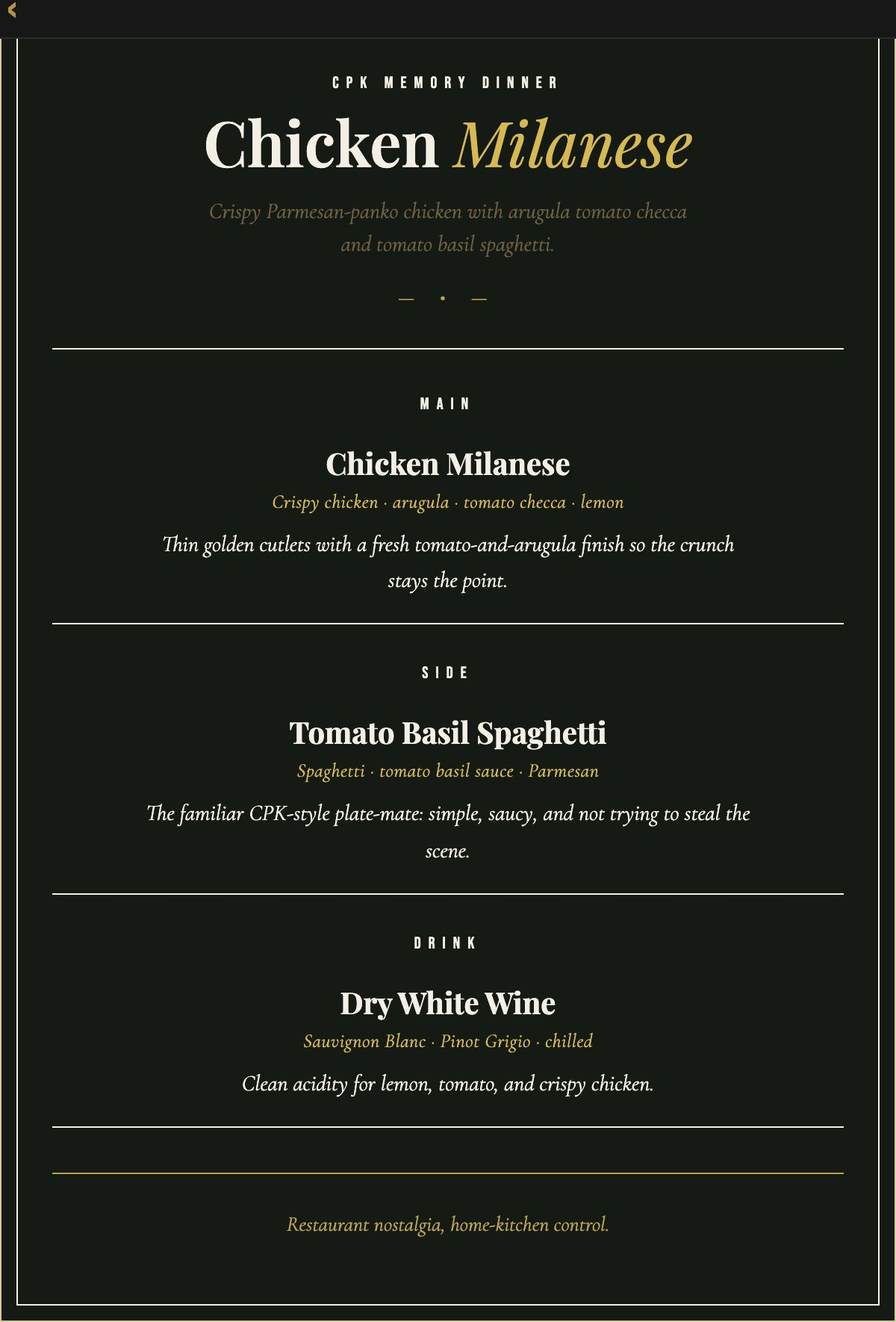
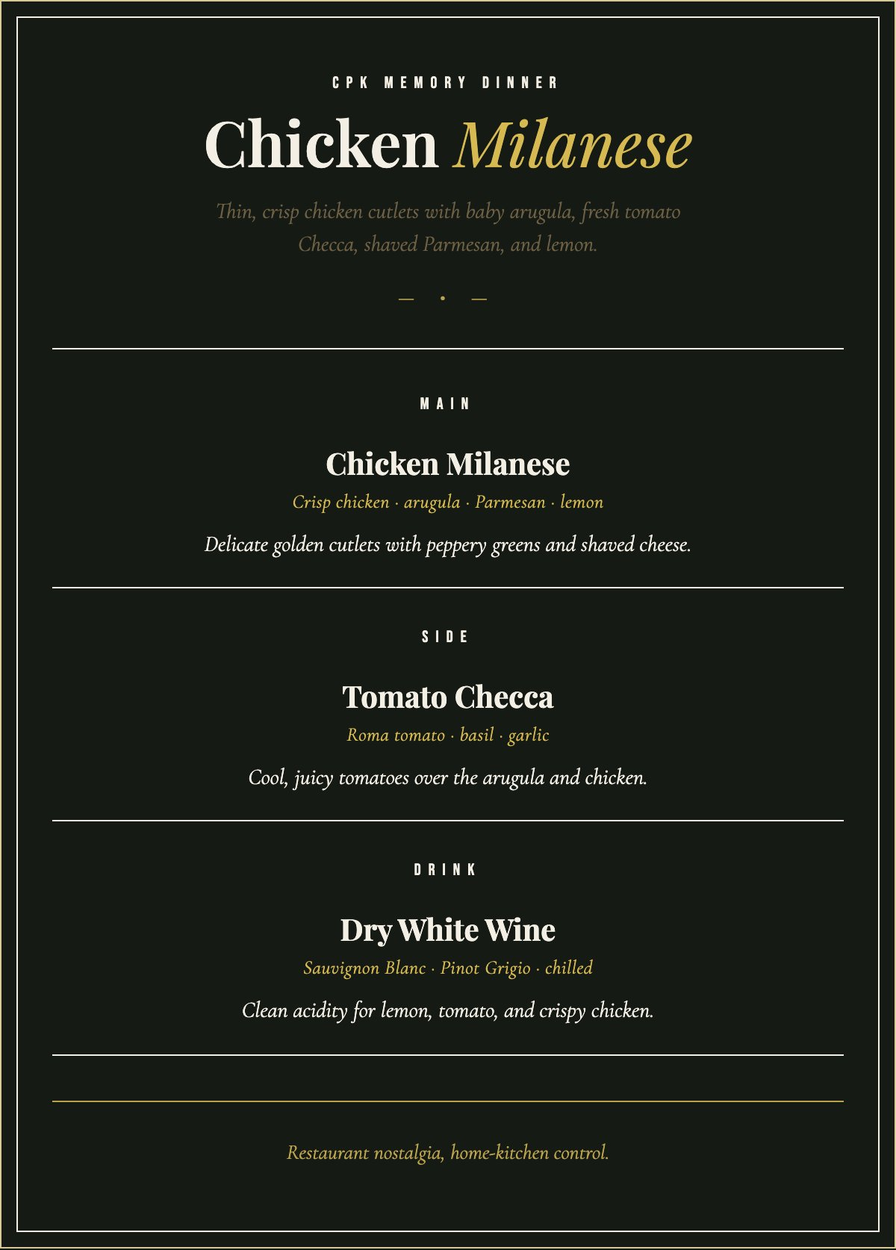
Update Milanese to cookbook recipe and align chicken bake drink

diff --git a/docs/instruction-content.js b/docs/instruction-content.js
@@ -128,8 +128,8 @@ window.INSTRUCTION_CONTENT = {
   "chicken-milanese": {
     "title": "Chicken Milanese Instructions",
     "heroTitle": "Chicken <span>Milanese</span>",
-    "heroSub": "Serves 3 · Prep 25 min · Cook 25 min",
-    "body": "<div class=\"hero\">\n  <div class=\"hero-title\">Chicken <span>Milanese</span></div>\n  <div class=\"hero-sub\">Serves 3 · Prep 25 min · Cook 25 min</div>\n</div>\n\n<div class=\"sec\">Drink</div>\n<div class=\"ingredient-pull\"><div class=\"ingredient-pull-title\">Pull Out</div><div class=\"ingredient-pull-list\"><span class=\"ingredient-pill\">Dry white wine</span></div></div>\n<div class=\"cook-block wide-half\" data-no-scale>\n  <div class=\"cook-head\"><span><h3>Dry White Wine</h3></span></div>\n  <ol class=\"cook-steps\">\n    <li><span class=\"st\">Pour a cold glass of <span class=\"ing\">Sauvignon Blanc or Pinot Grigio</span>. Crisp, dry, and not here to fight the lemony crispy chicken.</span></li>\n  </ol>\n</div>\n\n<div class=\"sec\">Checca</div>\n<div class=\"ingredient-pull\"><div class=\"ingredient-pull-title\">Pull Out</div><div class=\"ingredient-pull-list\"><span class=\"ingredient-pill\">Tomatoes</span><span class=\"ingredient-pill\">Basil</span><span class=\"ingredient-pill\">Garlic</span><span class=\"ingredient-pill\">Lemon</span><span class=\"ingredient-pill\">Arugula</span></div></div>\n<div class=\"cook-block wide-half\">\n  <div class=\"cook-head\"><span><h3>Make Tomato Checca</h3></span></div>\n  <ol class=\"cook-steps\">\n    <li><span class=\"st\">Halve or quarter <span class=\"ing\">1 pint cherry tomatoes</span>. Chop <span class=\"ing\">1/4 cup basil</span> and mince or grate <span class=\"ing\">1 small garlic clove</span>.</span></li>\n    <li><span class=\"st\">Toss tomatoes with basil, garlic, <span class=\"ing\">1 tbsp lemon juice</span>, a small drizzle of oil, salt, and pepper.</span></li>\n    <li><span class=\"st\">Let it sit while everything cooks. Keep the <span class=\"ing\">arugula</span> undressed until plating so it stays crisp.</span></li>\n  </ol>\n</div>\n\n<div class=\"sec\">Pasta</div>\n<div class=\"ingredient-pull\"><div class=\"ingredient-pull-title\">Pull Out</div><div class=\"ingredient-pull-list\"><span class=\"ingredient-pill\">Spaghetti</span><span class=\"ingredient-pill\">Tomato basil sauce</span><span class=\"ingredient-pill\">Parmesan</span><span class=\"ingredient-pill\">Basil</span></div></div>\n<div class=\"cook-block wide-half\">\n  <div class=\"cook-head\"><span><h3>Tomato Basil Spaghetti</h3></span></div>\n  <ol class=\"cook-steps\">\n    <li><span class=\"st\">Boil <span class=\"ing\">8 oz spaghetti</span> in salted water until al dente. Save a splash of pasta water before draining.</span></li>\n    <li><span class=\"st\">Warm <span class=\"ing\">about 2 cups tomato basil sauce</span> or marinara in a small pot.</span></li>\n    <li><span class=\"st\">Toss spaghetti with enough sauce to coat, a splash of pasta water if needed, and <span class=\"ing\">2 tbsp parmesan</span>.</span></li>\n  </ol>\n</div>\n\n<div class=\"sec\">Chicken</div>\n<div class=\"ingredient-pull\"><div class=\"ingredient-pull-title\">Pull Out</div><div class=\"ingredient-pull-list\"><span class=\"ingredient-pill\">Chicken breasts</span><span class=\"ingredient-pill\">Flour</span><span class=\"ingredient-pill\">Eggs</span><span class=\"ingredient-pill\">Panko</span><span class=\"ingredient-pill\">Parmesan</span><span class=\"ingredient-pill\">Italian seasoning</span></div></div>\n<div class=\"cook-block wide-full\">\n  <div class=\"cook-head\"><span><h3>Bread the Chicken</h3></span></div>\n  <ol class=\"cook-steps\">\n    <li><span class=\"st\">Slice <span class=\"ing\">about 1 1/4 lb (3 chicken breasts)</span> into cutlets if thick, then pound to about <span class=\"ing\">1/4 inch</span> thick. Season both sides with salt and pepper.</span></li>\n    <li><span class=\"st\">Set up three shallow dishes: <span class=\"ing\">1/2 cup flour</span>, <span class=\"ing\">2 beaten eggs</span>, and <span class=\"ing\">1 1/2 cups panko</span> mixed with <span class=\"ing\">1/2 cup parmesan</span> and <span class=\"ing\">1 tsp Italian seasoning</span>.</span></li>\n    <li><span class=\"st\">Dredge chicken in flour, dip in egg, then press firmly into the panko mixture. Rest breaded cutlets on a plate for <span class=\"ing\">5 minutes</span> so the coating grabs on.</span></li>\n  </ol>\n</div>\n\n<div class=\"sec\">Fry</div>\n<div class=\"ingredient-pull\"><div class=\"ingredient-pull-title\">Pull Out</div><div class=\"ingredient-pull-list\"><span class=\"ingredient-pill\">Breaded chicken</span><span class=\"ingredient-pill\">Lemon</span><span class=\"ingredient-pill\">Parmesan</span></div></div>\n<div class=\"cook-block wide-full\">\n  <div class=\"cook-head\"><span><h3>Crisp the Cutlets</h3></span></div>\n  <ol class=\"cook-steps\">\n    <li><span class=\"st\">Heat a large skillet over medium to medium-high with a thin layer of neutral oil, about <span class=\"ing\">1/4 inch</span> deep.</span></li>\n    <li><span class=\"st\">Fry cutlets in batches for <span class=\"ing\">3-4 minutes per side</span>, until deeply golden and cooked through to <span class=\"ing\">165 F</span>.</span></li>\n    <li><span class=\"st\">Move to a wire rack or paper towel-lined plate. Hit each cutlet with a small squeeze of <span class=\"ing\">lemon</span> and a little extra <span class=\"ing\">parmesan</span>.</span></li>\n  </ol>\n</div>\n\n<div class=\"sec\">Serve</div>\n<div class=\"ingredient-pull\"><div class=\"ingredient-pull-title\">Pull Out</div><div class=\"ingredient-pull-list\"><span class=\"ingredient-pill\">Chicken</span><span class=\"ingredient-pill\">Arugula</span><span class=\"ingredient-pill\">Tomato checca</span><span class=\"ingredient-pill\">Spaghetti</span><span class=\"ingredient-pill\">Lemon</span></div></div>\n<div class=\"cook-block wide-full\">\n  <div class=\"cook-head\"><span><h3>Build the Milanese</h3></span></div>\n  <ol class=\"cook-steps\">\n    <li><span class=\"st\">Plate the <span class=\"ing\">tomato basil spaghetti</span> first so the chicken stays crisp until the last second.</span></li>\n    <li><span class=\"st\">Set a crispy <span class=\"ing\">chicken cutlet</span> next to the pasta. Top the chicken with a small handful of <span class=\"ing\">arugula</span> and spoon over the <span class=\"ing\">tomato checca</span>.</span></li>\n    <li><span class=\"st\">Finish with <span class=\"ing\">lemon wedges</span>, more parmesan, and chopped <span class=\"ing\">parsley</span> if using.</span></li>\n  </ol>\n</div>"
+    "heroSub": "Serves 4 · Prep 25 min · Cook 20 min",
+    "body": "<div class=\"hero\">\n  <div class=\"hero-title\">Chicken <span>Milanese</span></div>\n  <div class=\"hero-sub\">Serves 4 · Prep 25 min · Cook 20 min</div>\n</div>\n\n<div class=\"sec\">Drink</div>\n<div class=\"ingredient-pull\"><div class=\"ingredient-pull-title\">Pull Out</div><div class=\"ingredient-pull-list\"><span class=\"ingredient-pill\">Dry white wine</span></div></div>\n<div class=\"cook-block wide-half\" data-no-scale>\n  <div class=\"cook-head\"><span><h3>Dry White Wine</h3></span></div>\n  <ol class=\"cook-steps\"><li><span class=\"st\">Pour a cold glass of <span class=\"ing\">Sauvignon Blanc or Pinot Grigio</span>.</span></li></ol>\n</div>\n\n<div class=\"sec\">Checca</div>\n<div class=\"ingredient-pull\"><div class=\"ingredient-pull-title\">Pull Out</div><div class=\"ingredient-pull-list\"><span class=\"ingredient-pill\">Roma tomatoes</span><span class=\"ingredient-pill\">Garlic</span><span class=\"ingredient-pill\">Basil</span><span class=\"ingredient-pill\">Olive oil</span></div></div>\n<div class=\"cook-block wide-half\">\n  <div class=\"cook-head\"><span><h3>Make the Checca</h3></span></div>\n  <ol class=\"cook-steps\">\n    <li><span class=\"st\">Core and quarter <span class=\"ing\">3/4 lb Roma tomatoes</span>. Scoop out the seeds and firm inner membranes, then cut the flesh into <span class=\"ing\">1/2-inch pieces</span>.</span></li>\n    <li><span class=\"st\">Toss with <span class=\"ing\">1 1/2 tsp minced garlic</span>, <span class=\"ing\">3/4 tsp kosher salt</span>, <span class=\"ing\">2 large basil leaves</span>, finely chopped, and <span class=\"ing\">1/4 cup extra-virgin olive oil</span>. Cover and refrigerate for at least <span class=\"ing\">30 minutes</span> and up to <span class=\"ing\">24 hours</span>.</span></li>\n    <li><span class=\"st\">Stir and drain off excess liquid just before serving.</span></li>\n  </ol>\n</div>\n\n<div class=\"sec\">Chicken</div>\n<div class=\"ingredient-pull\"><div class=\"ingredient-pull-title\">Pull Out</div><div class=\"ingredient-pull-list\"><span class=\"ingredient-pill\">Chicken breasts</span><span class=\"ingredient-pill\">Egg</span><span class=\"ingredient-pill\">Plain breadcrumbs</span><span class=\"ingredient-pill\">White pepper</span></div></div>\n<div class=\"cook-block wide-half\">\n  <div class=\"cook-head\"><span><h3>Prepare the Cutlets</h3></span></div>\n  <ol class=\"cook-steps\"><li><span class=\"st\">Use <span class=\"ing\">4 chicken breasts</span> (<span class=\"ing\">about 2 lb</span>), boneless and skinless. Split each horizontally to make <span class=\"ing\">8 cutlets</span>. Between sheets of parchment, pound each to an even <span class=\"ing\">1/4- to 3/8-inch thickness</span>. Refrigerate if doing this ahead.</span></li></ol>\n</div>\n<div class=\"cook-block wide-half\">\n  <div class=\"cook-head\"><span><h3>Bread the Chicken</h3></span></div>\n  <ol class=\"cook-steps\">\n    <li><span class=\"st\">Beat <span class=\"ing\">1 large egg</span> in a shallow dish. In another dish, mix <span class=\"ing\">1 cup plain dry breadcrumbs</span>, <span class=\"ing\">1 tsp kosher salt</span>, and <span class=\"ing\">1/2 tsp ground white pepper</span>.</span></li>\n    <li><span class=\"st\">Dip each cutlet in egg, let excess drip off, then coat evenly with the seasoned breadcrumbs. Set the breaded cutlets on a plate.</span></li>\n  </ol>\n</div>\n\n<div class=\"sec\">Fry</div>\n<div class=\"ingredient-pull\"><div class=\"ingredient-pull-title\">Pull Out</div><div class=\"ingredient-pull-list\"><span class=\"ingredient-pill\">Breaded chicken</span><span class=\"ingredient-pill\">Olive oil</span></div></div>\n<div class=\"cook-block wide-full\">\n  <div class=\"cook-head\"><span><h3>Fry the Cutlets</h3></span></div>\n  <ol class=\"cook-steps\">\n    <li><span class=\"st\">Heat <span class=\"ing\">6 tbsp olive oil</span> in a large skillet over medium-high heat. Cook half the cutlets in a single layer until golden, about <span class=\"ing\">2-3 minutes</span> on the first side and <span class=\"ing\">1-2 minutes</span> on the second.</span></li>\n    <li><span class=\"st\">Check that the thickest part reaches <span class=\"ing\">165 F</span>; if not, lower the heat and cook a little longer. Transfer to a rack or paper towel-lined platter. Add the remaining <span class=\"ing\">6 tbsp olive oil</span> and cook the second batch the same way.</span></li>\n  </ol>\n</div>\n\n<div class=\"sec\">Serve</div>\n<div class=\"ingredient-pull\"><div class=\"ingredient-pull-title\">Pull Out</div><div class=\"ingredient-pull-list\"><span class=\"ingredient-pill\">Chicken</span><span class=\"ingredient-pill\">Arugula</span><span class=\"ingredient-pill\">Checca</span><span class=\"ingredient-pill\">Parmesan</span><span class=\"ingredient-pill\">Lemons</span></div></div>\n<div class=\"cook-block wide-full\">\n  <div class=\"cook-head\"><span><h3>Plate the Milanese</h3></span></div>\n  <ol class=\"cook-steps\">\n    <li><span class=\"st\">Divide the cutlets among plates. Pile on <span class=\"ing\">8 cups baby arugula</span>, loosely packed and drizzle the greens with <span class=\"ing\">1 tbsp extra-virgin olive oil</span> total.</span></li>\n    <li><span class=\"st\">Spoon over the <span class=\"ing\">2 cups checca</span>, scatter <span class=\"ing\">2 oz Parmesan</span>, shaved on top, and serve with <span class=\"ing\">2 lemons</span>, halved for squeezing.</span></li>\n  </ol>\n</div>"
   },
   "lemony-chicken-orzo-skillet": {
     "title": "Lemony Chicken & Orzo Skillet Instructions",

diff --git a/docs/quantity-scaler.js b/docs/quantity-scaler.js
@@ -11,7 +11,7 @@
     '⅔': 2 / 3,
     '¾': 0.75
   };
-  const unitPattern = 'cups?|tbsp|tsp|oz|lb|lbs|pounds?|pints?|cans?|cloves?|heads?|bunch(?:es)?|packages?|pkg|avocados?|limes?|lemons?|cucumbers?|carrots?|tomato(?:es)?|potato(?:es)?|onions?|shallots?|zucchinis?|eggs?|meatballs?|balls?|jars?|containers?|fillets?|breasts?|thighs?|cutlets?|patties?|drumsticks?|wings?|pitas?|tortillas?|rolls?|slices?';
+  const unitPattern = 'cups?|tbsp|tsp|oz|lb|lbs|pounds?|pints?|cans?|cloves?|heads?|bunch(?:es)?|packages?|pkg|avocados?|limes?|lemons?|cucumbers?|carrots?|tomato(?:es)?|potato(?:es)?|onions?|shallots?|zucchinis?|eggs?|meatballs?|balls?|jars?|containers?|fillets?|breasts?|thighs?|cutlets?|patties?|drumsticks?|wings?|pitas?|tortillas?|rolls?|slices?|leaf|leaves';
   const foodUnit = new RegExp(`\\b(${unitPattern})\\b`, 'i');
   const noScale = /\b(min|mins|minute|minutes|sec|second|seconds|hour|hours|f|degrees?|medium|high|low|full|inch|inches|thick|heat|timer)\b/i;
 
@@ -30,7 +30,7 @@
     if (!Number.isFinite(value) || value <= 0) return '0';
     const lowerUnit = unit.toLowerCase();
     const wholePortion = /^(fillets?|breasts?|thighs?|cutlets?|patties?|drumsticks?|wings?)$/.test(lowerUnit);
-    const countLike = !unit || /^(cans?|cloves?|heads?|bunch(?:es)?|packages?|pkg|avocados?|limes?|lemons?|cucumbers?|carrots?|tomato(?:es)?|potato(?:es)?|onions?|shallots?|zucchinis?|eggs?|meatballs?|balls?|jars?|containers?|fillets?|breasts?|thighs?|cutlets?|patties?|drumsticks?|wings?|pitas?|tortillas?|rolls?|slices?)$/.test(lowerUnit);
+    const countLike = !unit || /^(cans?|cloves?|heads?|bunch(?:es)?|packages?|pkg|avocados?|limes?|lemons?|cucumbers?|carrots?|tomato(?:es)?|potato(?:es)?|onions?|shallots?|zucchinis?|eggs?|meatballs?|balls?|jars?|containers?|fillets?|breasts?|thighs?|cutlets?|patties?|drumsticks?|wings?|pitas?|tortillas?|rolls?|slices?|leaf|leaves)$/.test(lowerUnit);
     const step = countLike ? 1 : 0.25;
     let rounded = Math.max(countLike ? 1 : 0.25, wholePortion ? Math.ceil(value) : Math.round(value / step) * step);
 
@@ -53,6 +53,7 @@
 
   const pluralizeUnit = (unit, quantity) => {
     if (!unit) return '';
+    if (/^(?:leaf|leaves)$/i.test(unit)) return Math.abs(quantity - 1) < 0.01 ? 'leaf' : 'leaves';
     if (Math.abs(quantity - 1) < 0.01 || (/^cups?$/i.test(unit) && quantity < 1)) return unit.replace(/s$/, '');
     if (/^(lb|lbs)$/i.test(unit)) return 'lb';
     if (/^zucchinis?$/i.test(unit)) return 'zucchini';
@@ -70,7 +71,7 @@
     const portionTokens = [];
     const rangeTokens = [];
     const quantityPattern = '(\\d+(?:\\s+\\d+\\/\\d+|\\/\\d+|\\.\\d+)?|[¼½¾⅓⅔])';
-    const descriptorPattern = '((?:\\s+(?:small|medium|large|english|white|yellow|red|green|grated|sliced|minced|chopped|packed|extra|fresh|whole|baby|cherry|garlic|beaten|more)){0,3})';
+    const descriptorPattern = '((?:\\s+(?:small|medium|large|english|white|yellow|red|green|grated|sliced|minced|chopped|packed|extra|fresh|whole|baby|cherry|garlic|basil|beaten|more)){0,3})';
     const portionUnits = 'breasts?|thighs?|cutlets?|patties?|drumsticks?|wings?|fillets?';
     const proteinName = '(?:boneless\\s+skinless\\s+)?(?:chicken|salmon|turkey|pork|beef)';
     const portionRangeWithProtein = new RegExp(`\\b${quantityPattern}\\s*[-–]\\s*${quantityPattern}\\s+(${proteinName})\\s+(${portionUnits})\\b`, 'gi');

diff --git a/docs/recipe-catalog.js b/docs/recipe-catalog.js
@@ -327,6 +327,13 @@ window.JEFES_KITCHEN_CATALOG = {
             "Panko or whole-wheat breadcrumbs",
             "Optional topping"
           ]
+        ],
+        "Alcohol/Drinks": [
+          [
+            "pilsner",
+            "Pilsner",
+            "4 cans, optional pairing"
+          ]
         ]
       },
       "grocery": "./docs/mild-chicken-noodle-bake/grocery-list-mild-chicken-noodle-bake.html"
@@ -2115,7 +2122,7 @@ window.JEFES_KITCHEN_CATALOG = {
       "id": "chicken-milanese",
       "name": "Chicken Milanese",
       "title": "Chicken Milanese",
-      "subtitle": "Crispy Chicken · Tomato Basil Spaghetti",
+      "subtitle": "Crispy Chicken · Arugula · Tomato Checca",
       "section": "chicken",
       "menu": "./docs/chicken-milanese/chicken-milanese-menu.html",
       "phone": "./docs/chicken-milanese/chicken-milanese-instructions.html",
@@ -2125,84 +2132,54 @@ window.JEFES_KITCHEN_CATALOG = {
         "Produce": [
           [
             "arugula",
-            "Arugula",
-            "Small container"
+            "Baby arugula",
+            "8 cups loosely packed"
           ],
           [
             "tomatoes",
-            "Cherry or grape tomatoes",
-            "1 pint"
+            "Roma tomatoes",
+            "3/4 lb"
           ],
           [
             "basil",
             "Fresh basil",
-            "Small bunch"
+            "Small bunch (2 large leaves needed)"
           ],
           [
             "garlic",
             "Garlic",
-            "1 head"
+            "1 1/2 tsp minced"
           ],
           [
             "lemons",
             "Lemons",
             "2"
-          ],
-          [
-            "parsley",
-            "Parsley",
-            "Small bunch, optional"
           ]
         ],
         "Meat/Seafood": [
           [
             "chicken-breasts",
             "Boneless skinless chicken breasts",
-            "About 1 1/4 lb, 3 chicken breasts"
+            "4 breasts (about 2 lb), cut into 8 cutlets"
           ]
         ],
         "Dairy": [
           [
             "eggs",
             "Eggs",
-            "2"
+            "1 large egg"
           ],
           [
             "parmesan",
             "Parmesan",
-            "About 3/4 cup"
+            "2 oz, shaved"
           ]
         ],
         "Pantry": [
           [
-            "spaghetti",
-            "Spaghetti",
-            "8 oz"
-          ],
-          [
-            "panko",
-            "Panko breadcrumbs",
-            "1 1/2 cups"
-          ],
-          [
-            "flour",
-            "Flour",
-            "1/2 cup"
-          ],
-          [
-            "marinara",
-            "Tomato basil sauce or marinara",
-            "About 2 cups"
-          ],
-          [
-            "italian-seasoning",
-            "Italian seasoning",
-            "1 tsp"
-          ],
-          [
-            "neutral-oil",
-            "Neutral oil",
-            "For shallow frying"
+            "breadcrumbs",
+            "Plain dry breadcrumbs",
+            "1 cup"
           ]
         ],
         "Alcohol/Drinks": [

diff --git a/docs/chicken-milanese/chicken-milanese-menu.html b/docs/chicken-milanese/chicken-milanese-menu.html
@@ -5,10 +5,10 @@
 <meta name="viewport" content="width=device-width, initial-scale=1.0">
 <title>Chicken Milanese Menu</title>
 <!-- Link preview -->
-<meta name="description" content="Crispy Parmesan-panko chicken with arugula tomato checca and tomato basil spaghetti.">
+<meta name="description" content="Thin, crisp chicken cutlets with baby arugula, fresh tomato Checca, shaved Parmesan, and lemon.">
 <meta property="og:type" content="website">
 <meta property="og:title" content="Chicken Milanese">
-<meta property="og:description" content="Crispy Parmesan-panko chicken with arugula tomato checca and tomato basil spaghetti.">
+<meta property="og:description" content="Thin, crisp chicken cutlets with baby arugula, fresh tomato Checca, shaved Parmesan, and lemon.">
 <meta property="og:url" content="https://jefekitchen.github.io/docs/chicken-milanese/chicken-milanese-menu.html">
 <meta property="og:image" content="https://jefekitchen.github.io/docs/chicken-milanese/share-preview.jpg">
 <meta property="og:image:alt" content="Preview of the Chicken Milanese menu">
@@ -25,22 +25,22 @@
   <header class="header">
     <div class="eyebrow">CPK Memory Dinner</div>
     <div class="title">Chicken <span>Milanese</span></div>
-    <div class="sub">Crispy Parmesan-panko chicken with arugula tomato checca and tomato basil spaghetti.</div>
+    <div class="sub">Thin, crisp chicken cutlets with baby arugula, fresh tomato Checca, shaved Parmesan, and lemon.</div>
     <div class="ornament">&mdash; &bull; &mdash;</div>
   </header>
 
   <div class="section-label">Main</div>
   <section class="menu-item">
     <div class="item-name">Chicken Milanese</div>
-    <div class="item-sub">Crispy chicken &middot; arugula &middot; tomato checca &middot; lemon</div>
-    <div class="item-desc">Thin golden cutlets with a fresh tomato-and-arugula finish so the crunch stays the point.</div>
+    <div class="item-sub">Crisp chicken &middot; arugula &middot; Parmesan &middot; lemon</div>
+    <div class="item-desc">Delicate golden cutlets with peppery greens and shaved cheese.</div>
   </section>
 
   <div class="section-label">Side</div>
   <section class="menu-item">
-    <div class="item-name">Tomato Basil Spaghetti</div>
-    <div class="item-sub">Spaghetti &middot; tomato basil sauce &middot; Parmesan</div>
-    <div class="item-desc">The familiar CPK-style plate-mate: simple, saucy, and not trying to steal the scene.</div>
+    <div class="item-name">Tomato Checca</div>
+    <div class="item-sub">Roma tomato &middot; basil &middot; garlic</div>
+    <div class="item-desc">Cool, juicy tomatoes over the arugula and chicken.</div>
   </section>
 
   <div class="section-label">Drink</div>

diff --git a/sw.js b/sw.js
@@ -1,4 +1,4 @@
-const CACHE_NAME = 'jeffs-kitchen-v240';
+const CACHE_NAME = 'jeffs-kitchen-v242';
 
 const PAGES = [
   './',
@@ -18,11 +18,17 @@ const PAGES = [
   './docs/instruction-content.js?v=45',
   './docs/instruction-content.js?v=46',
   './docs/instruction-content.js?v=47',
+  './docs/instruction-content.js?v=48',
   './docs/quantity-scaler.js?v=7',
+  './docs/quantity-scaler.js?v=8',
   './docs/recipe-catalog.js?v=17',
+  './docs/recipe-catalog.js?v=18',
   './docs/recipe-serving-data.js?v=9',
+  './docs/recipe-serving-data.js?v=10',
   './docs/prep-catalog.js?v=18',
+  './docs/prep-catalog.js?v=19',
   './docs/instruction-tools.js?v=5',
+  './docs/instruction-tools.js?v=6',
   './docs/firebase-config.js',
   './docs/firebase-state.js?v=6',
   './docs/instruction-renderer.js?v=28',
@@ -195,9 +201,9 @@ const APP_SHELL = [
   './assets/icons/apple-touch-icon.png',
   './assets/icons/favicon.png',
   './docs/theme.css?v=5',
-  './docs/recipe-catalog.js?v=17',
-  './docs/recipe-serving-data.js?v=9',
-  './docs/quantity-scaler.js?v=7',
+  './docs/recipe-catalog.js?v=18',
+  './docs/recipe-serving-data.js?v=10',
+  './docs/quantity-scaler.js?v=8',
   './docs/grocery-list-renderer.js?v=1',
   './docs/firebase-config.js',
   './docs/firebase-state.js?v=6',

diff --git a/docs/chicken-milanese/chicken-milanese-wide.html b/docs/chicken-milanese/chicken-milanese-wide.html
@@ -7,10 +7,10 @@
 <link href="https://fonts.googleapis.com/css2?family=Playfair+Display:wght@400;600&family=Source+Sans+3:wght@400;500;600&display=swap" rel="stylesheet">
 <link rel="stylesheet" href="../theme.css?v=17">
 <link rel="stylesheet" href="../wide-layout.css?v=18">
-<script src="../instruction-content.js?v=42" defer></script>
-<script src="../recipe-serving-data.js?v=6" defer></script>
-<script src="../quantity-scaler.js?v=7" defer></script>
-<script src="../instruction-tools.js?v=5" defer></script>
+<script src="../instruction-content.js?v=48" defer></script>
+<script src="../recipe-serving-data.js?v=10" defer></script>
+<script src="../quantity-scaler.js?v=8" defer></script>
+<script src="../instruction-tools.js?v=6" defer></script>
 <script src="../instruction-renderer.js?v=28" defer></script>
 </head>
 <body data-recipe="chicken-milanese" data-layout="wide">

diff --git a/docs/chicken-milanese/chicken-milanese-instructions.html b/docs/chicken-milanese/chicken-milanese-instructions.html
@@ -6,10 +6,10 @@
 <title>Chicken Milanese Instructions</title>
 <link href="https://fonts.googleapis.com/css2?family=Playfair+Display:wght@400;600&family=Source+Sans+3:wght@400;500;600&display=swap" rel="stylesheet">
 <link rel="stylesheet" href="../theme.css?v=17">
-<script src="../instruction-content.js?v=42" defer></script>
-<script src="../recipe-serving-data.js?v=6" defer></script>
-<script src="../quantity-scaler.js?v=7" defer></script>
-<script src="../instruction-tools.js?v=5" defer></script>
+<script src="../instruction-content.js?v=48" defer></script>
+<script src="../recipe-serving-data.js?v=10" defer></script>
+<script src="../quantity-scaler.js?v=8" defer></script>
+<script src="../instruction-tools.js?v=6" defer></script>
 <script src="../instruction-renderer.js?v=28" defer></script>
 </head>
 <body data-recipe="chicken-milanese" data-layout="phone">

diff --git a/docs/prep-catalog.js b/docs/prep-catalog.js
@@ -100,8 +100,8 @@ window.JEFES_KITCHEN_PREP = {
   ],
   "savory-roasted-edamame": [],
   "chicken-milanese": [
-    { section: "Make Tomato Checca", title: "Chop the tomatoes and herbs", steps: [0], storage: "Refrigerate the chopped ingredients separately until cook time." },
-    { section: "Bread the Chicken", steps: [0, 1, 2], storage: "Cover and refrigerate the breaded chicken until cook time." }
+    { section: "Make the Checca", steps: [0, 1], storage: "Keep refrigerated until serving; drain just before plating." },
+    { section: "Prepare the Cutlets", steps: [0], storage: "Cover and refrigerate the raw cutlets until cook time. Bread just before frying." }
   ],
   "sheet-pan-lemon-herb-chicken": [
     { section: "Season the Chicken and Beans", steps: [0, 1, 2], storage: "Keep the chicken and beans covered in separate containers in the refrigerator." },

diff --git a/docs/combined-shopping/this-week-prep.html b/docs/combined-shopping/this-week-prep.html
@@ -124,12 +124,12 @@
   <div class="board prep-board" id="prepList"></div>
 </main>
 
-<script src="../recipe-catalog.js?v=17"></script>
-<script src="../instruction-content.js?v=47"></script>
-<script src="../recipe-serving-data.js?v=9"></script>
-<script src="../quantity-scaler.js?v=7"></script>
-<script src="../prep-catalog.js?v=18"></script>
-<script src="../instruction-tools.js?v=5"></script>
+<script src="../recipe-catalog.js?v=18"></script>
+<script src="../instruction-content.js?v=48"></script>
+<script src="../recipe-serving-data.js?v=10"></script>
+<script src="../quantity-scaler.js?v=8"></script>
+<script src="../prep-catalog.js?v=19"></script>
+<script src="../instruction-tools.js?v=6"></script>
 <script type="module" src="../firebase-state.js?v=6"></script>
 <script>
   const plannedRecipesKey = 'this-week-planned-recipes-v1';

diff --git a/docs/chicken-milanese/grocery-list-chicken-milanese.html b/docs/chicken-milanese/grocery-list-chicken-milanese.html
@@ -6,9 +6,9 @@
 <title>Grocery List - Chicken Milanese</title>
 <link href="https://fonts.googleapis.com/css2?family=Playfair+Display:wght@400;600&family=Source+Sans+3:wght@400;500;600&display=swap" rel="stylesheet">
 <link rel="stylesheet" href="../theme.css?v=5">
-<script src="../recipe-catalog.js?v=17"></script>
-<script src="../recipe-serving-data.js?v=9"></script>
-<script src="../quantity-scaler.js?v=7"></script>
+<script src="../recipe-catalog.js?v=18"></script>
+<script src="../recipe-serving-data.js?v=10"></script>
+<script src="../quantity-scaler.js?v=8"></script>
 <script src="../grocery-list-renderer.js?v=1" defer></script>
 <script src="../grocery-boom.js?v=1" defer></script>
 </head>

diff --git a/docs/mild-chicken-noodle-bake/mild-chicken-noodle-bake-menu.html b/docs/mild-chicken-noodle-bake/mild-chicken-noodle-bake-menu.html
@@ -45,9 +45,9 @@
 
   <div class="section-label">Drink</div>
   <section class="menu-item">
-    <div class="item-name">Easy Chardonnay</div>
-    <div class="item-sub">Chardonnay &middot; white blend &middot; light butter</div>
-    <div class="item-desc">A soft white wine pairing that fits the creamy noodle thing.</div>
+    <div class="item-name">Cold Pilsner</div>
+    <div class="item-sub">Crisp &middot; light &middot; refreshing</div>
+    <div class="item-desc">A crisp contrast to the creamy chicken and noodles.</div>
   </section>
 
   <footer class="footer">Gentle, creamy, and couch-safe.</footer>

diff --git a/docs/instruction-tools.js b/docs/instruction-tools.js
@@ -40,6 +40,8 @@
     if (/^potato(?: chunk)?s?$/i.test(name)) return 'Potatoes';
     if (/^broccoli$/i.test(name)) return 'Broccoli';
     if (/^edamame$/i.test(name)) return 'Edamame';
+    if (/^basil leaves?$/i.test(name)) return 'Basil';
+    if (/^baby arugula$/i.test(name)) return 'Arugula';
     if (/^chicken(?: breasts?| thighs?| cutlets?)?$/i.test(name)) return 'Chicken';
     if (/^shrimp$/i.test(name)) return 'Shrimp';
     if (/^(?:rice|white rice)$/i.test(name)) return 'Rice';
